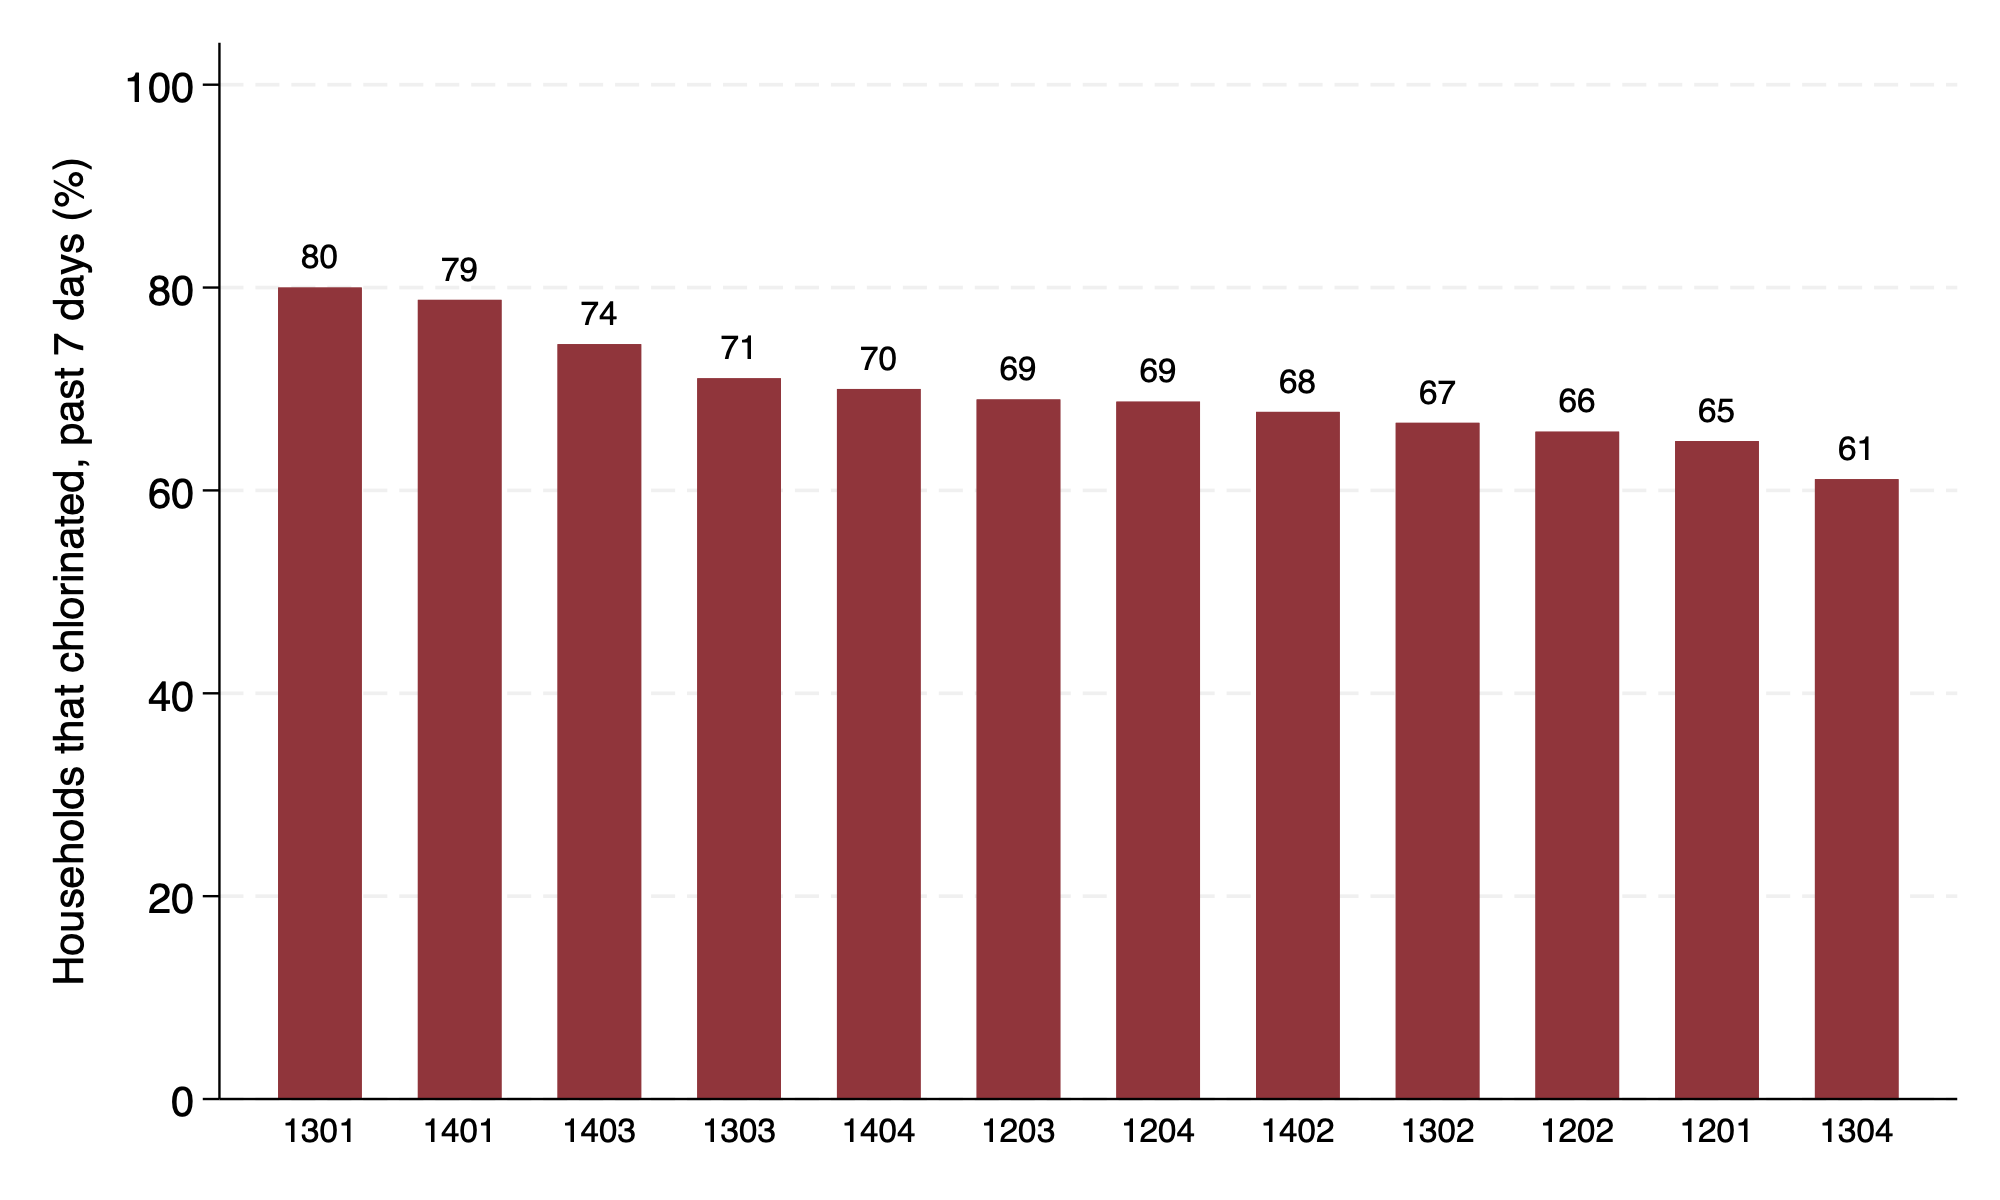
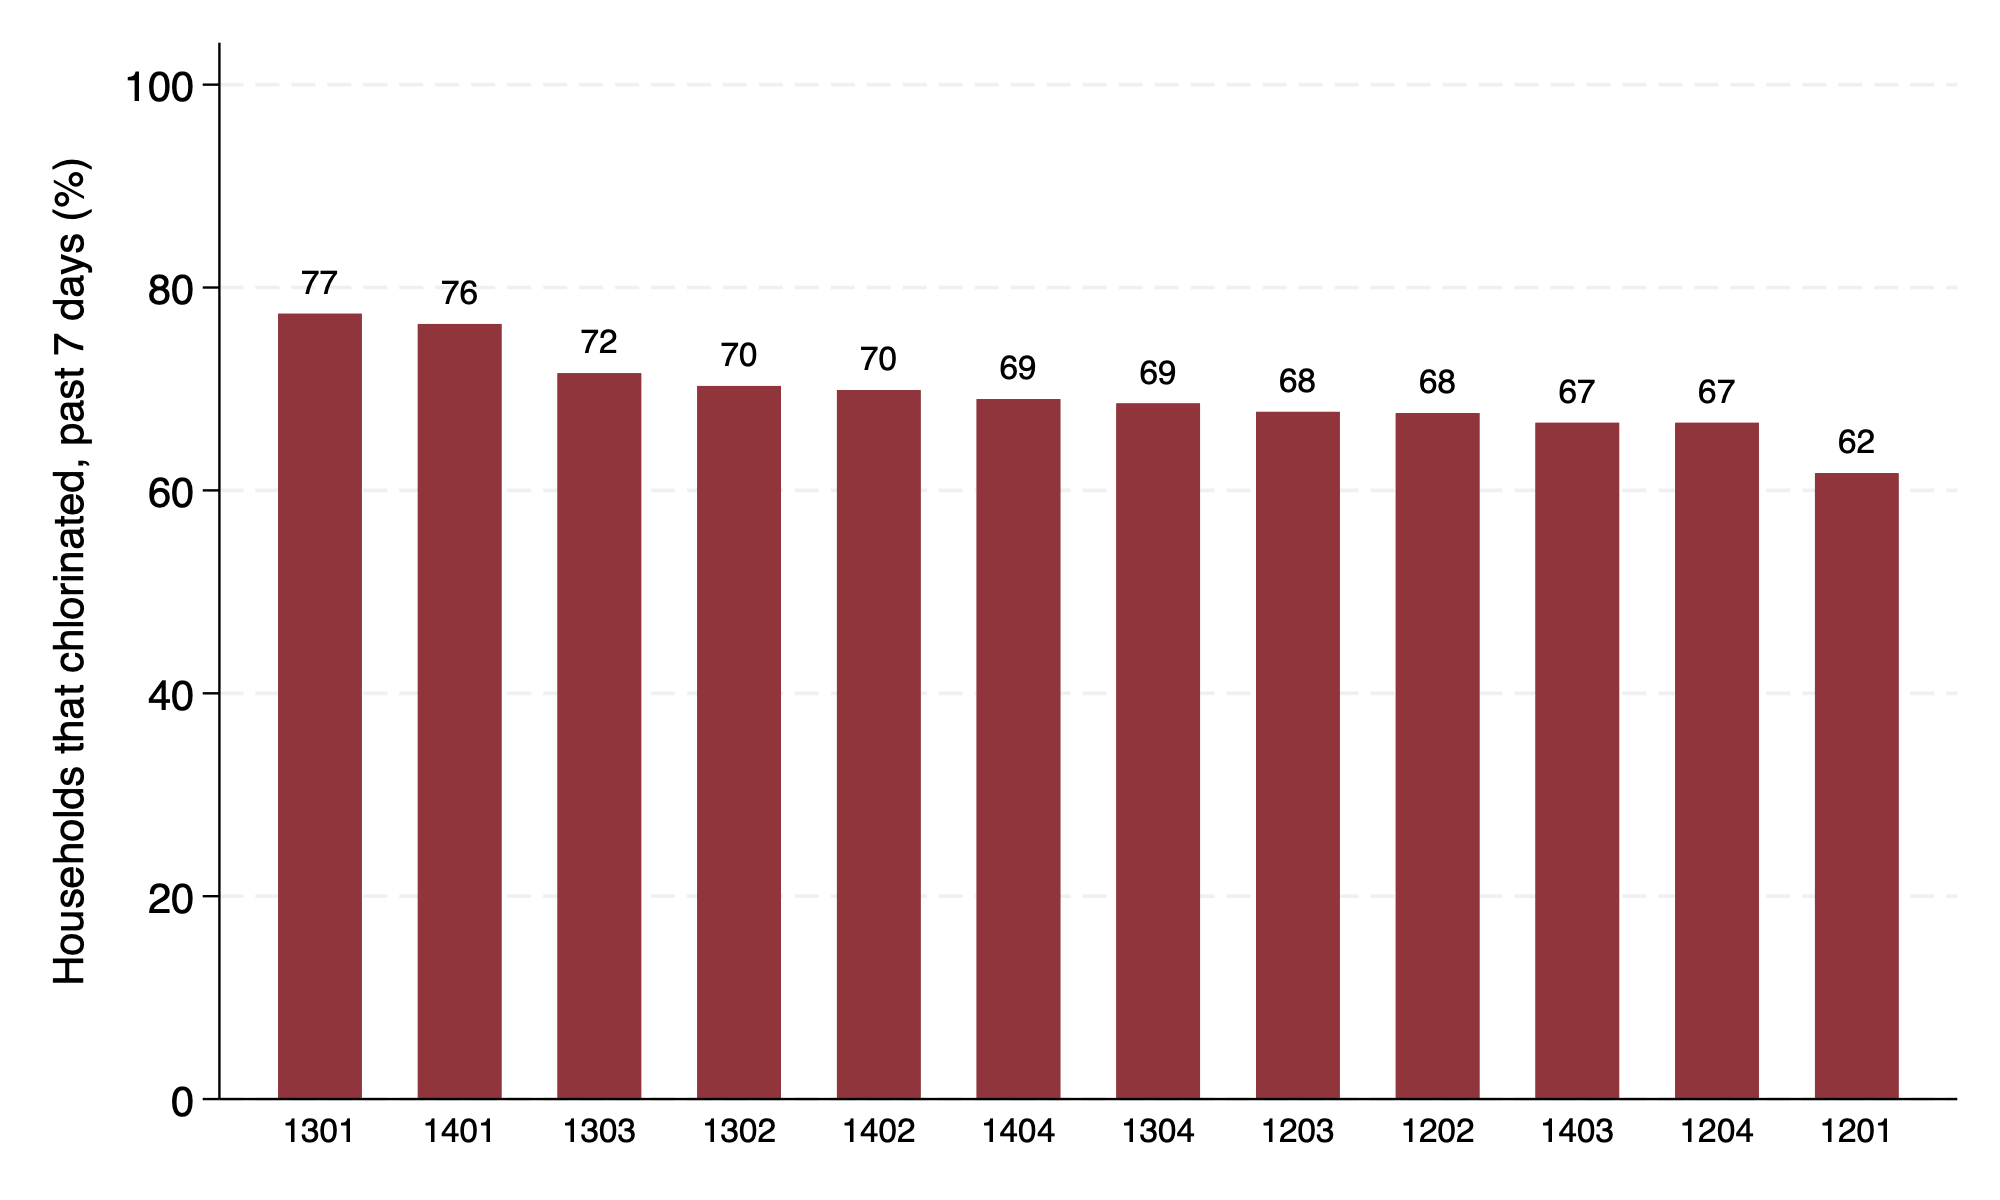
non last week updates

diff --git a/tables/tab1-water-practices.tex b/tables/tab1-water-practices.tex
@@ -3,14 +3,14 @@
 \toprule
  & Piped & Other sources & All \\
 \midrule
-Chlorinated drinking water, past 7 days (\%) & 70.9 & 68.9 & 69.9 \\
-Days chlorinated, past 7 days (mean) & 2.8 & 2.9 & 2.8 \\
-Boiled drinking water, past 7 days (\%) & 76.5 & 76.5 & 76.4 \\
-Has drinking water stored now (\%) & 73.9 & 71.9 & 72.6 \\
-\quad Stored water was chlorinated (\%) & 28.0 & 31.8 & 30.0 \\
-Ran out of chlorine tablets, past 30 days (\%) & 29.9 & 31.5 & 30.7 \\
-Rates drinking water as very safe (\%) & 36.3 & 36.4 & 36.2 \\
+Chlorinated drinking water, past 7 days (\%) & 69.8 & 68.9 & 69.3 \\
+Days chlorinated, past 7 days (mean) & 2.8 & 2.8 & 2.8 \\
+Boiled drinking water, past 7 days (\%) & 73.1 & 77.2 & 75.2 \\
+Has drinking water stored now (\%) & 70.7 & 69.4 & 69.9 \\
+\quad Stored water was chlorinated (\%) & 31.4 & 30.2 & 30.8 \\
+Ran out of chlorine tablets, past 30 days (\%) & 30.5 & 35.4 & 33.1 \\
+Rates drinking water as very safe (\%) & 36.9 & 38.9 & 37.9 \\
 \midrule
-Households & 204 & 239 & 445 \\
+Households & 567 & 679 & 1,254 \\
 \bottomrule
 \end{tabular}

diff --git a/tables/numbers.tex b/tables/numbers.tex
@@ -1,13 +1,13 @@
 % Written by code/2-export-outputs.do. Do not edit by hand: rerun the code.
-\newcommand{\sampleNote}{the last 7 days of fieldwork only}
-\newcommand{\fieldworkStart}{14 July 2026}
+\newcommand{\sampleNote}{all days of fieldwork}
+\newcommand{\fieldworkStart}{1 July 2026}
 \newcommand{\fieldworkEnd}{20 July 2026}
-\newcommand{\nVisited}{452}
-\newcommand{\nHH}{445}
-\newcommand{\consentRate}{98.5}
-\newcommand{\shareChlorine}{69.9}
+\newcommand{\nVisited}{1,293}
+\newcommand{\nHH}{1,254}
+\newcommand{\consentRate}{97.0}
+\newcommand{\shareChlorine}{69.3}
 \newcommand{\meanChlorineDays}{2.8}
-\newcommand{\sharePiped}{46.0}
-\newcommand{\nChildren}{552}
-\newcommand{\diarrheaChlor}{21.7}
-\newcommand{\diarrheaNoChlor}{31.1}
+\newcommand{\sharePiped}{45.5}
+\newcommand{\nChildren}{1,583}
+\newcommand{\diarrheaChlor}{24.5}
+\newcommand{\diarrheaNoChlor}{25.5}
